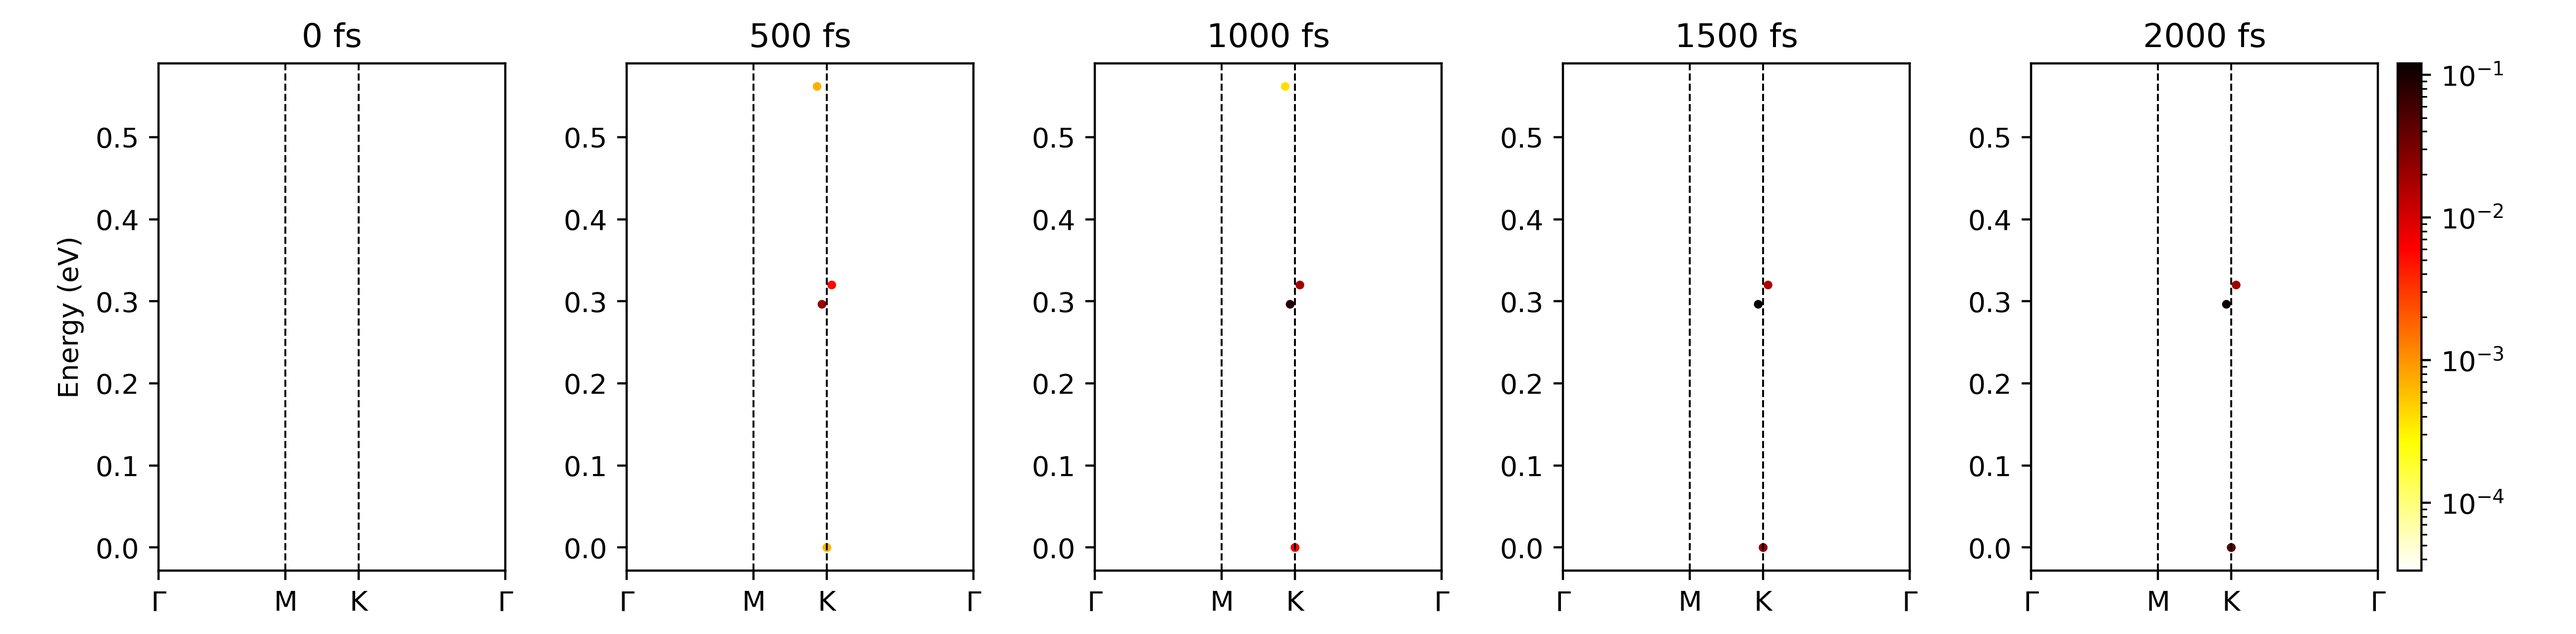
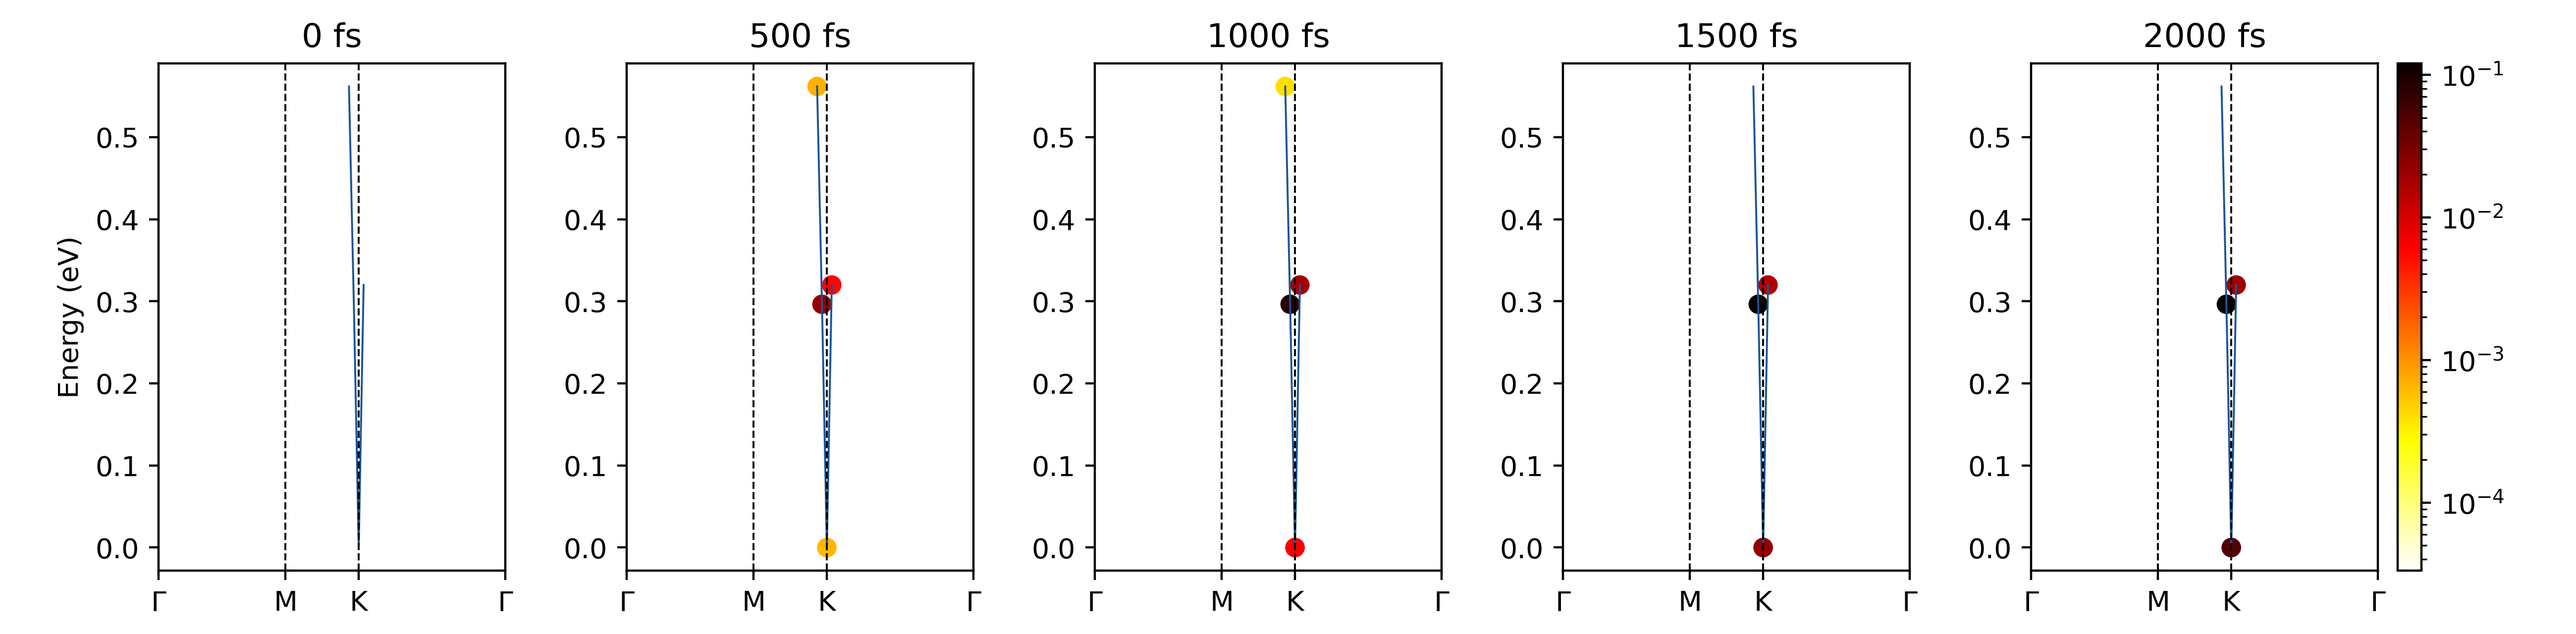
Add end kpoint in TDBAND, TDPH, et. al figures.

diff --git a/scripts/namdplt.py b/scripts/namdplt.py
@@ -13,7 +13,7 @@ def main():
     #######################################################################
 
     Eref = 0.0
-    which_plt = [1, 2, 31, 4, 5, 6]
+    which_plt = [1, 11, 12, 2, 31, 4, 5, 6]
     '''
     Select which figures to plot.
     1: COUPLE.png; 11:COUPLE_EL.png; 12:COUPLE_PH.png; 2: TDEN.png;
@@ -42,6 +42,10 @@ def main():
     A = pn.read_ephmath5(filepm, dset='/el_ph_band_info/lattice_vec_angstrom')
     a1, a2, a3 = (A[0], A[1], A[2])
     b1, b2, b3 = pn.calc_rec_vec(a1, a2, a3)
+
+    filbassel='BASSEL'
+    bassel  = np.loadtxt(filbassel, dtype=int, skiprows=1)
+    b_index = bassel[:, 1] - 1
 
     en, kpts = pn.ek_selected(inp=inp) # en & kpts selected
     Enk = pn.get_Enk(kpath, B=[b1, b2, b3], inp=inp) # total Enk
@@ -101,7 +105,7 @@ def main():
         # times = [0, 50, 100, 200, 500, 1000]
         times = list( range(0, int(namdtime)+1, int(namdtime/4)) )
         plot_tdband_sns(k_loc, en, kp_loc, kplabels, shp, k_index, times,
-                    Eref=Eref, figname='TDBAND.png')
+                        b_index=b_index, Eref=Eref, figname='TDBAND.png')
 
 
     if ((5 in which_plt) or (6 in which_plt)):
@@ -451,7 +455,7 @@ def plot_tdband(k_loc, en, kp_loc, kplabels, shp, index,
 
 
 def plot_tdband_sns(k_loc, en, kp_loc, kplabels, shp, index, times,
-        X_bg=None, E_bg=None, Eref=0.0, figname='TDBAND.png'):
+        b_index=None, X_bg=None, E_bg=None, Eref=0.0, figname='TDBAND.png'):
 
     nbasis = index.shape[0]
     ntsteps = shp.shape[0]
@@ -487,7 +491,18 @@ def plot_tdband_sns(k_loc, en, kp_loc, kplabels, shp, index, times,
         ax = axes[it]
         ax.set_title('%.0f fs'%times[it])
 
-        sc = ax.scatter(X, E, s=10, lw=0,
+        # plot background E-k lines
+        if b_index is not None:
+            if (it==0):
+                sort_index = np.argsort(k_loc)
+                X_bg = k_loc[sort_index]
+                E_bg = en[index][sort_index] - Eref
+                b_ind_bg = b_index[index][sort_index]
+
+            for ib in np.unique(b_ind_bg):
+                ax.plot(X_bg[b_ind_bg==ib], E_bg[b_ind_bg==ib], '#1A5599', lw=0.7)
+
+        sc = ax.scatter(X, E, s=50, lw=0,
                 c=pop[it,:], cmap=cmap, norm=norm)
 
         nkpath = kp_loc.shape[0]

diff --git a/example/namdplt.py b/example/namdplt.py
@@ -43,6 +43,10 @@ def main():
     a1, a2, a3 = (A[0], A[1], A[2])
     b1, b2, b3 = pn.calc_rec_vec(a1, a2, a3)
 
+    filbassel='BASSEL'
+    bassel  = np.loadtxt(filbassel, dtype=int, skiprows=1)
+    b_index = bassel[:, 1] - 1
+
     en, kpts = pn.ek_selected(inp=inp) # en & kpts selected
     Enk = pn.get_Enk(kpath, B=[b1, b2, b3], inp=inp) # total Enk
     kpts_cart = pn.frac2cart(kpts, b1, b2, b3)
@@ -101,7 +105,7 @@ def main():
         # times = [0, 50, 100, 200, 500, 1000]
         times = list( range(0, int(namdtime)+1, int(namdtime/4)) )
         plot_tdband_sns(k_loc, en, kp_loc, kplabels, shp, k_index, times,
-                    Eref=Eref, figname='TDBAND.png')
+                        b_index=b_index, Eref=Eref, figname='TDBAND.png')
 
 
     if ((5 in which_plt) or (6 in which_plt)):
@@ -451,7 +455,7 @@ def plot_tdband(k_loc, en, kp_loc, kplabels, shp, index,
 
 
 def plot_tdband_sns(k_loc, en, kp_loc, kplabels, shp, index, times,
-        X_bg=None, E_bg=None, Eref=0.0, figname='TDBAND.png'):
+        b_index=None, X_bg=None, E_bg=None, Eref=0.0, figname='TDBAND.png'):
 
     nbasis = index.shape[0]
     ntsteps = shp.shape[0]
@@ -487,7 +491,18 @@ def plot_tdband_sns(k_loc, en, kp_loc, kplabels, shp, index, times,
         ax = axes[it]
         ax.set_title('%.0f fs'%times[it])
 
-        sc = ax.scatter(X, E, s=10, lw=0,
+        # plot background E-k lines
+        if b_index is not None:
+            if (it==0):
+                sort_index = np.argsort(k_loc)
+                X_bg = k_loc[sort_index]
+                E_bg = en[index][sort_index] - Eref
+                b_ind_bg = b_index[index][sort_index]
+
+            for ib in np.unique(b_ind_bg):
+                ax.plot(X_bg[b_ind_bg==ib], E_bg[b_ind_bg==ib], '#1A5599', lw=0.7)
+
+        sc = ax.scatter(X, E, s=50, lw=0,
                 c=pop[it,:], cmap=cmap, norm=norm)
 
         nkpath = kp_loc.shape[0]

diff --git a/example/postnamd.py b/example/postnamd.py
@@ -357,7 +357,8 @@ def select_kpts_on_path(kpts, kpath, norm=1e-4):
     for ik in range(nks):
         kpt = kpts[ik,:]
         for ipath in range(npath):
-            zz = k_on_path(kpt, pathes[ipath], dks[ipath], norm)
+            lendkpt = False if (ipath<npath-1) else True
+            zz = k_on_path(kpt, pathes[ipath], dks[ipath], norm, lendkpt)
             if (zz):
                 #k_tag[ik, ipath] = 1
                 k_index.append(ik); path_index.append(ipath)
@@ -367,7 +368,7 @@ def select_kpts_on_path(kpts, kpath, norm=1e-4):
     return k_index, path_index
 
 
-def k_on_path(kpt, path, dk, norm):
+def k_on_path(kpt, path, dk, norm, lendkpt=False):
     '''
     Determine whether k point is on path.
 
@@ -378,6 +379,7 @@ def k_on_path(kpt, path, dk, norm):
     dk  : array, with shape of (3), difference between begin and end points
           of path.
     norm: float, stard value to determine whether k point is on path.
+    lendkpt: bool, whether to include end point of path
 
     Returns: True or False.
     '''
@@ -408,8 +410,9 @@ def k_on_path(kpt, path, dk, norm):
     b = (kpt[2]-path[0,2]) * dk[0]
     if ( abs(b-a)>norm ): return False
 
-    # Not including end point of path
-    if (np.sum(np.abs(kpt-path[1,:]))<norm): return False
+    if not lendkpt:
+        # do not include end point of path
+        if (np.sum(np.abs(kpt-path[1,:]))<norm): return False
 
     return True
 

diff --git a/scripts/postnamd.py b/scripts/postnamd.py
@@ -357,7 +357,8 @@ def select_kpts_on_path(kpts, kpath, norm=1e-4):
     for ik in range(nks):
         kpt = kpts[ik,:]
         for ipath in range(npath):
-            zz = k_on_path(kpt, pathes[ipath], dks[ipath], norm)
+            lendkpt = False if (ipath<npath-1) else True
+            zz = k_on_path(kpt, pathes[ipath], dks[ipath], norm, lendkpt)
             if (zz):
                 #k_tag[ik, ipath] = 1
                 k_index.append(ik); path_index.append(ipath)
@@ -367,7 +368,7 @@ def select_kpts_on_path(kpts, kpath, norm=1e-4):
     return k_index, path_index
 
 
-def k_on_path(kpt, path, dk, norm):
+def k_on_path(kpt, path, dk, norm, lendkpt=False):
     '''
     Determine whether k point is on path.
 
@@ -378,6 +379,7 @@ def k_on_path(kpt, path, dk, norm):
     dk  : array, with shape of (3), difference between begin and end points
           of path.
     norm: float, stard value to determine whether k point is on path.
+    lendkpt: bool, whether to include end point of path
 
     Returns: True or False.
     '''
@@ -408,8 +410,9 @@ def k_on_path(kpt, path, dk, norm):
     b = (kpt[2]-path[0,2]) * dk[0]
     if ( abs(b-a)>norm ): return False
 
-    # Not including end point of path
-    if (np.sum(np.abs(kpt-path[1,:]))<norm): return False
+    if not lendkpt:
+        # do not include end point of path
+        if (np.sum(np.abs(kpt-path[1,:]))<norm): return False
 
     return True
 
